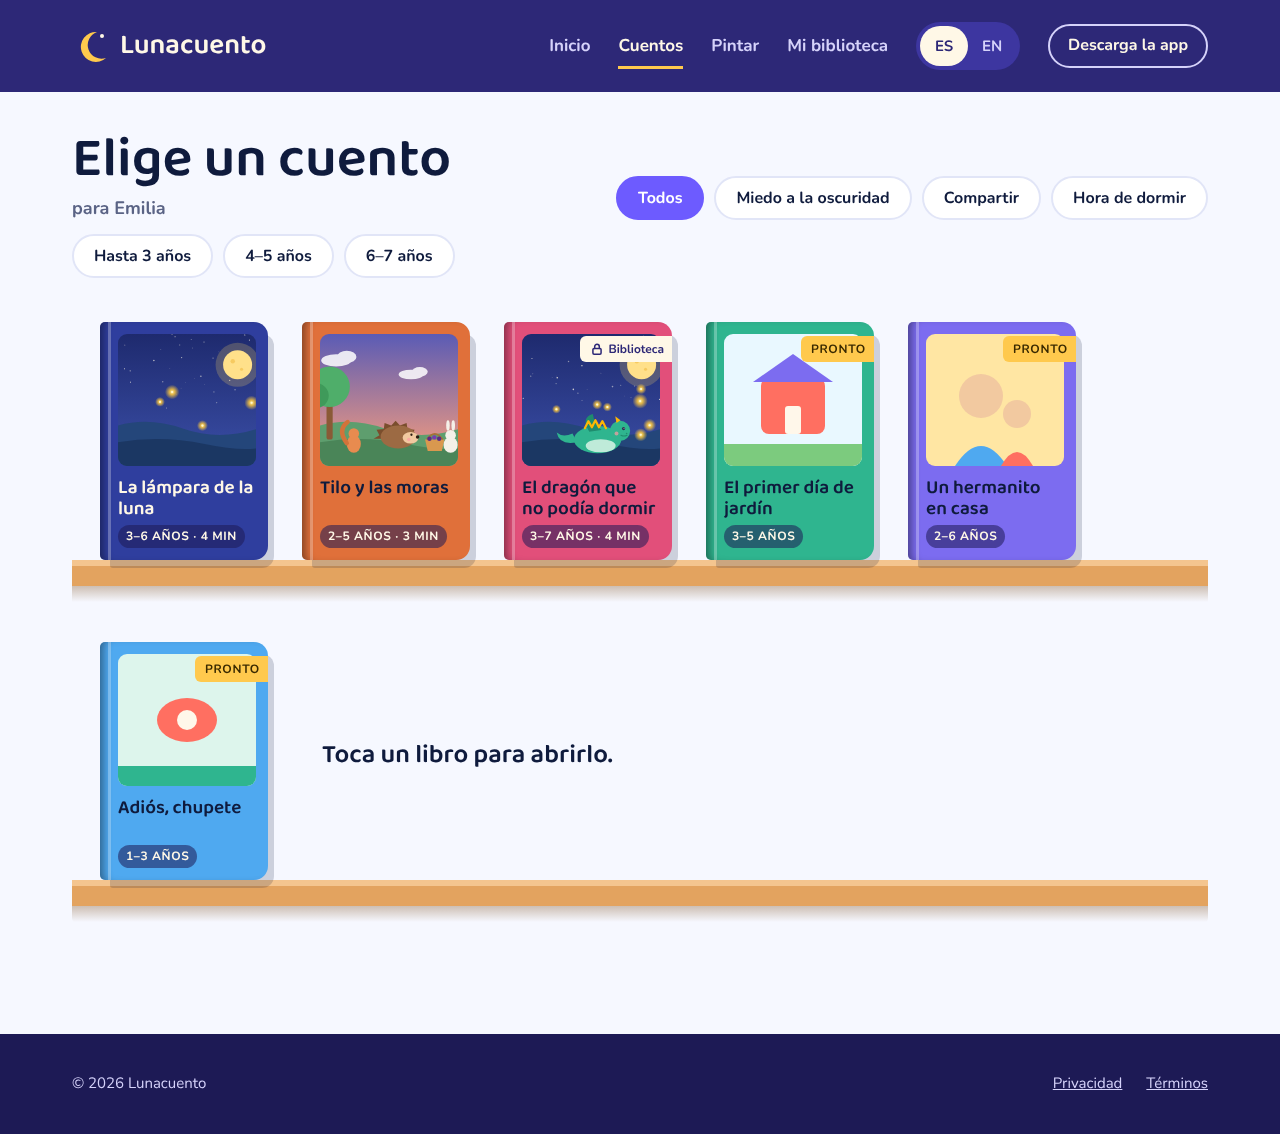
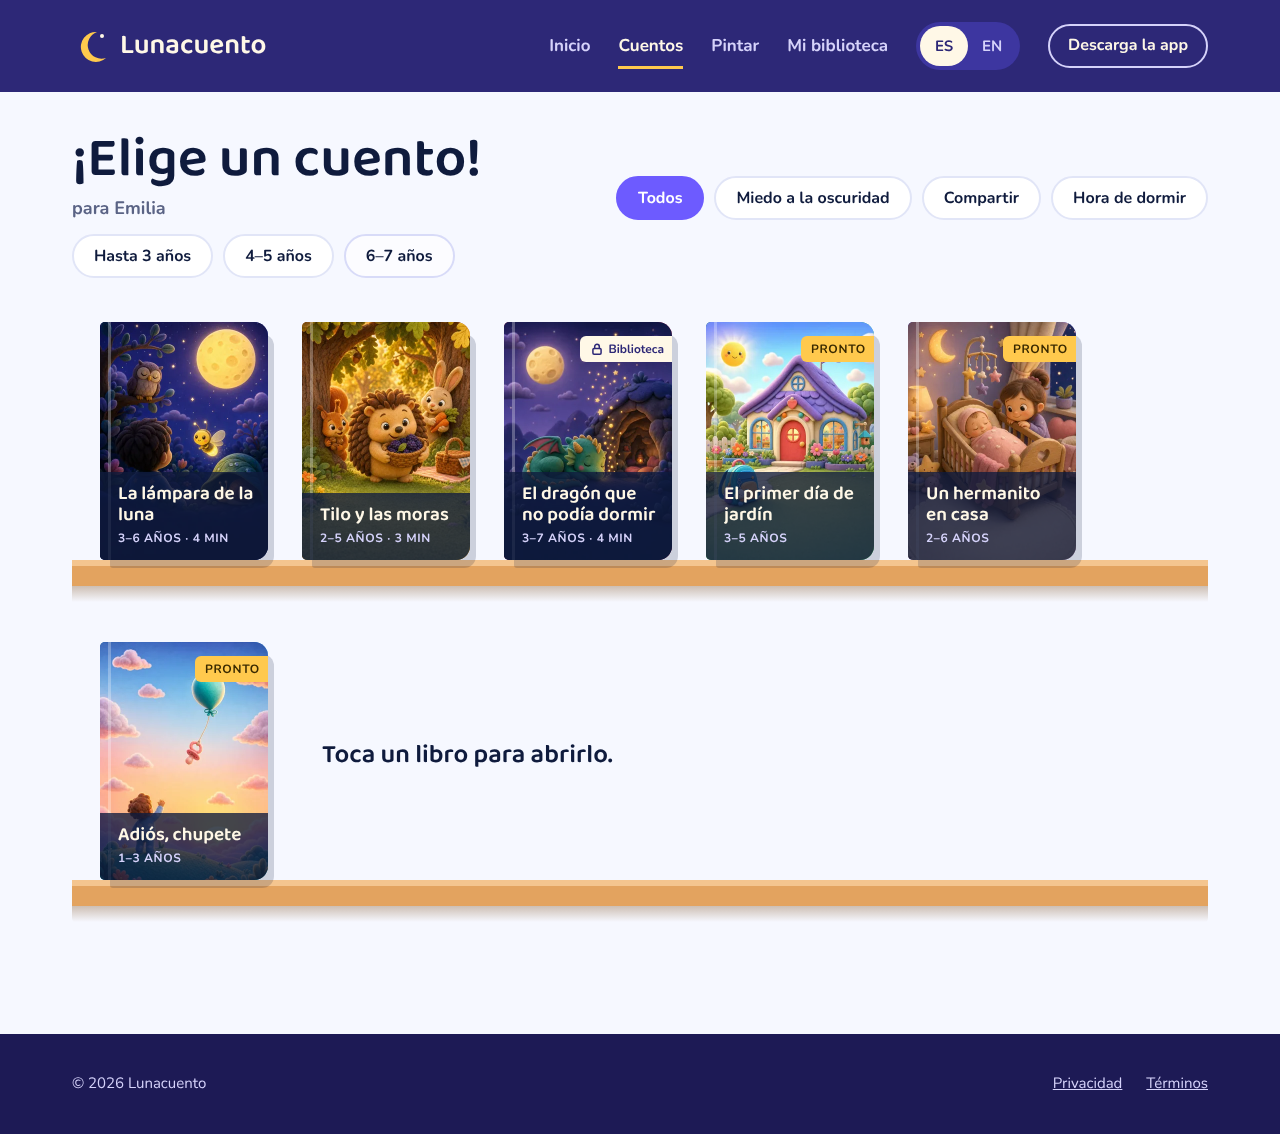
Reemplaza placeholders por las ilustraciones generadas y ajusta el hero y el saludo
- 15 ilustraciones gpt-image-2 (hero, 6 portadas, 2 accesos, 6 dibujos de línea),
  revisadas: sin texto, mismo estilo de lana, líneas cerradas.
- El taller usa el relleno por píxeles con los dibujos reales (SVG de respaldo).
- Escritorio: filtros del hero en una sola fila, estante más arriba, con más aire
  y lejos del libro del niño.
- Móvil: '¡Hola, {nombre}!' con nombre, campo solo sin nombre o al cambiarlo,
  luna completa en lugar del círculo cortado.
- docs/capturas: solo las capturas finales de la auditoría; el resto va a
  .capturas/ (ignorado). Comparaciones con el mockup fuera del repo (.adjuntos-pr/).
- Planes: 5 dibujos gratis.

Claude-Session: https://claude.ai/code/session_01NsKeDMnxH8TrdVoQXG24KL

Changed region(s): [[0.0625, 0.2778, 0.8438, 0.4938], [0.0625, 0.5556, 0.2188, 0.8025], [0.0625, 0.1235, 0.375, 0.1852]]

diff --git a/src/app/globals.css b/src/app/globals.css
@@ -521,8 +521,9 @@ html[data-native] input { -webkit-user-select: text; user-select: text; }
   .desk-only { display: none; }
 }
 .m-top { position: relative; overflow: hidden; background: var(--night); color: var(--moon-text); padding: 8px 20px 84px; }
-.m-moon { position: absolute; right: -34px; top: 14px; width: 120px; height: 120px; border-radius: 50%; background: var(--moon); opacity: .95; }
+.m-moon { position: absolute; right: 22px; top: 22px; width: 64px; height: 64px; border-radius: 50%; background: var(--moon); box-shadow: 0 0 0 10px rgba(255, 224, 138, .16); }
 .greet { position: relative; z-index: 1; display: flex; flex-direction: column; align-items: flex-start; gap: 6px; }
+.greet-hi, .greet-sub { padding-right: 84px; } /* deja libre la luna */
 .greet-hi { font-size: 40px; line-height: 1.05; }
 .greet-sub { color: var(--moon-muted); font-size: 18px; font-weight: 600; }
 .greet-change { min-height: 44px; margin-top: 4px; padding: 0 18px; border-radius: 999px; border: 2px solid var(--moon-muted); background: transparent; color: var(--moon-text); font: 800 15px var(--font-body); }
@@ -559,25 +560,29 @@ html[data-native] input { -webkit-user-select: text; user-select: text; }
    Hero de escritorio y tablet: título, filtros y estante sobre la ilustración
    (niño y zorro a la izquierda hasta ~40 %, luna arriba a la derecha: todo el texto va desde --stage-left)
    ===================================================================== */
-.stage { --stage-left: 40%; --stage-shadow: 0 2px 14px rgba(45, 40, 119, .6); position: relative; overflow: hidden; background: var(--violet); color: #FFFFFF; min-height: clamp(620px, 56vw, 780px); display: flex; }
+.stage { --stage-left: 48%; --stage-shadow: 0 2px 14px rgba(45, 40, 119, .6); position: relative; overflow: hidden; background: var(--violet); color: #FFFFFF; min-height: clamp(660px, 58vw, 800px); display: flex; }
 .stage-art { position: absolute; inset: 0; }
 .stage-img, .stage-fallback { width: 100%; height: 100%; object-fit: cover; object-position: center 40%; display: block; }
-.stage-body { position: relative; z-index: 1; width: 100%; display: flex; flex-direction: column; justify-content: space-between; gap: 24px; padding-top: 34px; padding-bottom: 28px; }
-.stage-head { display: flex; flex-direction: column; align-items: flex-start; gap: 12px; margin-left: var(--stage-left); max-width: min(560px, calc(100% - var(--stage-left))); }
-.stage-head h1 { font-size: clamp(38px, 4.6vw, 62px); line-height: 1; color: #FFFFFF; text-shadow: var(--stage-shadow); }
+.stage-body { position: relative; z-index: 1; width: 100%; display: flex; flex-direction: column; justify-content: space-between; gap: 24px; padding-top: 34px; padding-bottom: 76px; }
+.stage-head { display: flex; flex-direction: column; align-items: flex-start; gap: 12px; margin-left: var(--stage-left); }
+.stage-head h1 { font-size: clamp(36px, 4.2vw, 56px); line-height: 1; color: #FFFFFF; text-shadow: var(--stage-shadow); }
 .stage-for { display: inline-flex; align-items: baseline; gap: 10px; font: 700 clamp(20px, 2vw, 26px) var(--font-display); color: #FFFFFF; text-shadow: var(--stage-shadow); }
 .stage-for input { min-width: 4ch; max-width: 14ch; padding: 2px 6px 0; border: 0; border-bottom: 3px solid var(--sun); background: transparent; font: inherit; color: inherit; text-shadow: inherit; border-radius: 0; }
 .stage-for input:focus-visible { outline-offset: 4px; }
 .stage-for input::placeholder { color: inherit; opacity: .7; }
-.stage-chips { justify-content: flex-start; }
-.stage-chips .chip { min-height: 44px; box-shadow: 0 3px 10px -4px rgba(15, 27, 61, .5); }
+/* Filtros siempre en una sola fila; si no caben (tablet), se desliza en horizontal, nunca baja una etiqueta sola */
+.stage-chips { justify-content: flex-start; flex-wrap: nowrap; gap: 8px; max-width: 100%; overflow-x: auto; scrollbar-width: none; padding: 2px 2px 6px; margin-bottom: -6px; }
+.stage-chips .chip { flex: none; min-height: 44px; padding: 0 16px; font-size: 15px; box-shadow: 0 3px 10px -4px rgba(15, 27, 61, .5); }
+.stage-chips .short { display: none; }
+@media (max-width: 1100px) { .stage-chips .long { display: none; } .stage-chips .short { display: inline; } }
+@media (max-width: 900px) { .stage-chips { gap: 6px; } .stage-chips .chip { padding: 0 12px; font-size: 14px; } }
 .stage-shelf { position: relative; margin-left: var(--stage-left); }
-.stage-books { list-style: none; margin: 0; padding: 0 12px 6px; display: flex; align-items: flex-end; gap: 18px; overflow-x: auto; scroll-snap-type: x proximity; scroll-padding-left: 12px; scrollbar-width: none; }
+.stage-books { list-style: none; margin: 0; padding: 0 20px 6px; display: flex; align-items: flex-end; gap: 26px; overflow-x: auto; scroll-snap-type: x proximity; scroll-padding-left: 20px; scrollbar-width: none; }
 .stage-books > li { flex: none; scroll-snap-align: start; }
 .stage-books .bk { width: 142px; height: 200px; }
 .stage-plank { position: relative; height: 24px; margin-top: -4px; margin-right: 0; border-radius: 6px; background: var(--wood); border-top: 6px solid var(--wood-edge); box-shadow: 0 14px 18px -10px rgba(120, 70, 20, .55); }
 .stage-nav { position: absolute; top: 80px; z-index: 2; width: 48px; height: 48px; border: 0; border-radius: 50%; display: grid; place-items: center; background: #FFFFFF; color: var(--ink); box-shadow: 0 6px 16px -6px rgba(15, 27, 61, .55); }
-.stage-nav.prev { left: -20px; }
+.stage-nav.prev { left: -26px; }
 .stage-nav.next { right: -6px; }
 .stage-nav:active { transform: scale(.94); }
 .stage-empty { position: absolute; left: 24px; bottom: 40px; color: #FFFFFF; text-shadow: var(--stage-shadow); font-weight: 700; }

diff --git a/src/components/NameGreeting.tsx b/src/components/NameGreeting.tsx
@@ -1,20 +1,19 @@
 "use client";
 
 import { useState } from "react";
-import type { Dict, Lang } from "@/lib/i18n";
-import { DEFAULT_NAME } from "@/lib/i18n";
-import { setKidName, useKidName, useRawKidName } from "@/lib/name-store";
+import type { Dict } from "@/lib/i18n";
+import { setKidName, useRawKidName } from "@/lib/name-store";
 import { fmt } from "@/lib/text";
 
 /** Saludo móvil "¡Hola, {nombre}!". Sin nombre guardado pide uno; con nombre, un botón permite cambiarlo. Solo se guarda en el dispositivo. */
-export default function NameGreeting({ lang, t }: { lang: Lang; t: Dict }) {
+export default function NameGreeting({ t }: { t: Dict }) {
   const raw = useRawKidName();
-  const name = useKidName(DEFAULT_NAME[lang]);
   const [edit, setEdit] = useState(false);
+  // El campo se muestra si no hay nombre o si se pidió cambiarlo; se queda abierto mientras se escribe (aunque ya haya letras)
   const asking = edit || !raw.trim();
   return (
     <div className="greet">
-      <h1 className="greet-hi">{raw.trim() ? fmt(t.hero.hello, { n: name }) : t.mobile.hi}</h1>
+      <h1 className="greet-hi">{raw.trim() ? fmt(t.hero.hello, { n: raw.trim() }) : t.mobile.hi}</h1>
       <p className="greet-sub">{asking ? t.hero.nameLabel : t.quick.label}</p>
       {asking ? (
         <div className="greet-edit">
@@ -28,7 +27,11 @@ export default function NameGreeting({ lang, t }: { lang: Lang; t: Dict }) {
             maxLength={18}
             placeholder={t.hero.namePlaceholder}
             value={raw}
+            onFocus={() => setEdit(true)}
             onChange={(e) => setKidName(e.target.value)}
+            onKeyDown={(e) => {
+              if (e.key === "Enter" && raw.trim()) setEdit(false);
+            }}
           />
           {raw.trim() ? <button type="button" className="btn btn-sun" onClick={() => setEdit(false)}>{t.mobile.done}</button> : null}
         </div>

diff --git a/src/components/HeroStage.tsx b/src/components/HeroStage.tsx
@@ -4,7 +4,7 @@ import { useRef, useState } from "react";
 import type { Dict, Lang } from "@/lib/i18n";
 import { DEFAULT_NAME } from "@/lib/i18n";
 import { useKidName, setKidName, useRawKidName } from "@/lib/name-store";
-import { COMING_SOON, FILTERS, STORIES, VALUES, type ValueKey } from "@/lib/stories";
+import { COMING_SOON, FILTERS, STORIES, VALUES, VALUES_SHORT, type ValueKey } from "@/lib/stories";
 import BookCard from "./BookCard";
 import IlluImg from "./IlluImg";
 import { IconNext, IconPrev } from "./icons";
@@ -64,7 +64,12 @@ export default function HeroStage({ lang, t }: { lang: Lang; t: Dict }) {
           <div className="chips stage-chips" role="group" aria-label={t.shelf.filters}>
             {(["all", ...FILTERS] as Filter[]).map((k) => (
               <button key={k} type="button" className="chip" aria-pressed={filter === k} onClick={() => setFilter(k)}>
-                {k === "all" ? t.shelf.all : VALUES[k][lang]}
+                {k === "all" ? t.shelf.all : (
+                  <>
+                    <span className="long">{VALUES[k][lang]}</span>
+                    <span className="short" aria-hidden="true">{VALUES_SHORT[k][lang]}</span>
+                  </>
+                )}
               </button>
             ))}
           </div>

diff --git a/src/lib/i18n.ts b/src/lib/i18n.ts
@@ -67,7 +67,7 @@ const es = {
   plans: {
     title: "Planes",
     items: {
-      free: { name: "Gratis", price: "US$0", feat: ["2 cuentos", "2 dibujos"], cta: "Leer un cuento" },
+      free: { name: "Gratis", price: "US$0", feat: ["2 cuentos", "5 dibujos"], cta: "Leer un cuento" },
       full: { name: "Biblioteca completa", price: "US$7,99", per: "pago único", feat: ["Todos los cuentos", "Todos los dibujos", "Modo dormir", "Sin anuncios ni suscripción"], cta: "Descarga la app", badge: "Para siempre" },
     },
     appStore: { small: "Descárgala en", big: "App Store" },
@@ -175,7 +175,7 @@ const en: typeof es = {
   plans: {
     title: "Plans",
     items: {
-      free: { name: "Free", price: "US$0", feat: ["2 stories", "2 drawings"], cta: "Read a story" },
+      free: { name: "Free", price: "US$0", feat: ["2 stories", "5 drawings"], cta: "Read a story" },
       full: { name: "Full library", price: "US$7.99", per: "one-time purchase", feat: ["Every story", "Every drawing", "Sleep mode", "No ads, no subscription"], cta: "Get the app", badge: "Yours forever" },
     },
     appStore: { small: "Download on the", big: "App Store" },

diff --git a/src/components/MobileHome.tsx b/src/components/MobileHome.tsx
@@ -15,7 +15,7 @@ export default function MobileHome({ lang, t }: { lang: Lang; t: Dict }) {
     <div className="m-home m-only">
       <section className="m-top" aria-label={t.mobile.hi}>
         <div className="m-moon" aria-hidden="true" />
-        <NameGreeting lang={lang} t={t} />
+        <NameGreeting t={t} />
       </section>
       <section className="m-cards" aria-label={t.quick.label}>
         <Link href={`/${lang}/cuentos`} className="m-card read">
